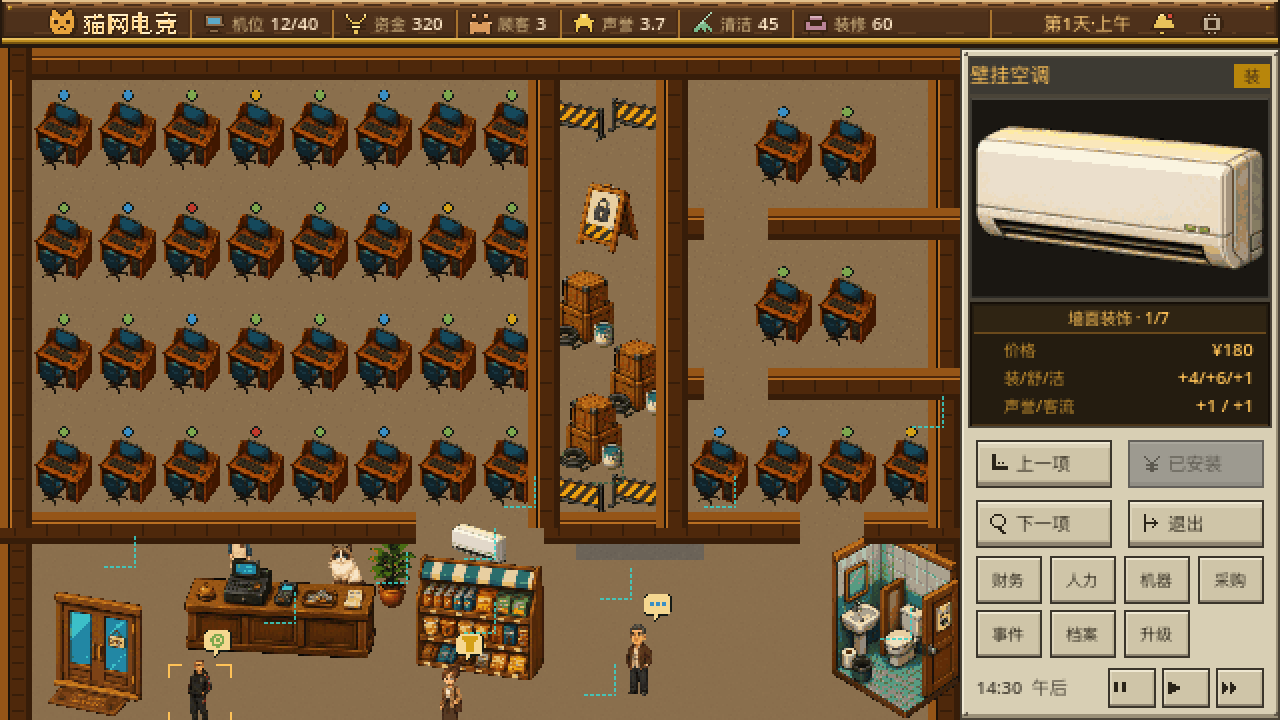
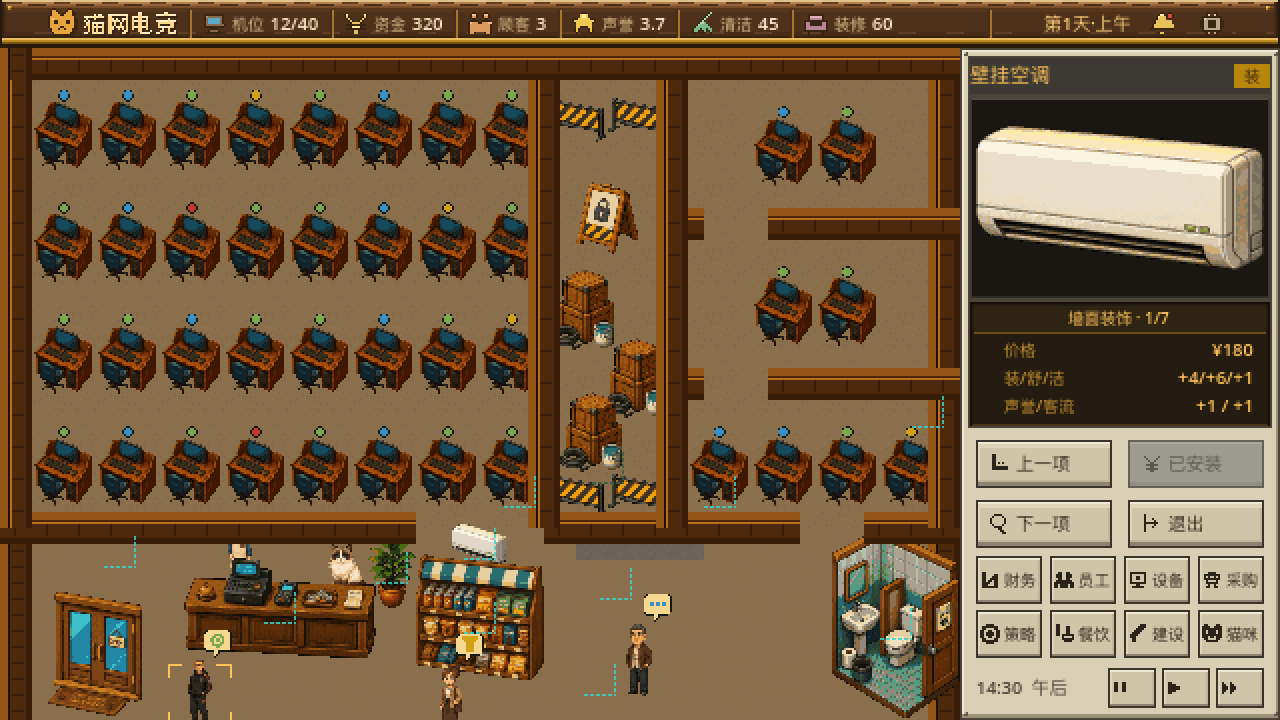
完成右栏运营系统草图与全链路验收
同步经营总台三态、八模块导航和模块边界文档；运行时断言覆盖全宽主键、模块顺序、建设装修跳转、对象返回及关店日结流程。

Changed region(s): [[0.75, 0.7944, 1.0, 0.9167]]

diff --git a/docs/ui/布局草图-像素风.html b/docs/ui/布局草图-像素风.html
@@ -94,6 +94,7 @@ img{image-rendering:pixelated}
 .p-actions{height:108px;flex-shrink:0;display:grid;grid-template-columns:136px 136px;
   grid-template-rows:48px 48px;gap:12px 16px;justify-content:center;align-content:center;
   margin-top:12px;margin-bottom:8px}
+.p-actions.counter .primary{grid-column:1/-1;width:auto}
 .btn{background:#cfc5a8;border:2px solid #3a352b;color:#2a2419;
   box-shadow:inset 0 4px 0 #ddd4ba,inset 0 2px 0 #efe8d2,inset 0 -4px 0 #8e8471,inset 0 -6px 0 #bfb598;
   display:flex;align-items:center;gap:6px;padding-left:14px;cursor:pointer}
@@ -111,11 +112,11 @@ img{image-rendering:pixelated}
 .btn.off img{filter:brightness(0) opacity(0.45)}
 .p-modules{height:156px;flex-shrink:0;display:flex;flex-direction:column;gap:8px}
 .mgrid{display:grid;grid-template-columns:repeat(4,66px);gap:6px 8px;justify-content:center}
-/* 模块小键暂时只有文字：33px 宽塞不下 icon + 两个字，等 16×16 模块图标到位再加 */
 .mod{height:48px;background:#cfc5a8;border:2px solid #3a352b;color:#2a2419;font-size:16px;
   box-shadow:inset 0 2px 0 #efe8d2,inset 0 -2px 0 #8e8471;
   display:flex;align-items:center;justify-content:center;position:relative;cursor:pointer}
 .mod:hover{background:#ded4b6}
+.mod img{width:20px;height:20px;image-rendering:pixelated;filter:brightness(0);margin-right:2px}
 .mod .dot{position:absolute;top:-4px;right:-4px;width:10px;height:10px;background:#c0392b;border:2px solid #ffe9c9}
 /* 时钟直接压在米白机身上，文字必须走深墨 */
 .timebar{height:44px;display:flex;align-items:center;gap:6px;color:#4a4438;font-size:17px}
@@ -162,11 +163,15 @@ img{image-rendering:pixelated}
 .decor-flow{width:1280px;display:grid;grid-template-columns:1fr 1fr;gap:12px}
 .decor-flow figure{margin:0;background:#352518;border:2px solid #765039;padding:8px}
 .decor-flow img{width:100%;image-rendering:pixelated}.decor-flow figcaption{color:#ffe9c9;text-align:center;margin-top:6px}
+.operation-states{width:1280px;display:grid;grid-template-columns:1fr 1fr;gap:12px}
+.operation-states figure{margin:0;background:#352518;border:2px solid #765039;padding:8px}
+.operation-states img{width:100%;image-rendering:pixelated}
+.operation-states figcaption{color:#ffe9c9;text-align:center;margin-top:6px}
 </style>
 </head>
 <body>
 
-<div class="cap">猫网电竞 · 布局 v6 ｜ 逻辑画布 <b>640×360</b>，本图 ×2 呈现 ｜ 已接入 24 项装修购买安装与区域换肤</div>
+<div class="cap">猫网电竞 · 布局 v7 ｜ 逻辑画布 <b>640×360</b>，本图 ×2 呈现 ｜ 经营总台三态 + 固定 4×2 八模块</div>
 
 <div class="screen">
 
@@ -198,38 +203,37 @@ img{image-rendering:pixelated}
          内容由页尾脚本按 stage_controller.gd 的坐标表生成，贴图取自 assets/world/ -->
     <div class="stage"><div id="scene"></div></div>
 
-    <!-- ③ 操作栏：默认柜台态 -->
+    <!-- ③ 操作栏：默认经营总台休息态 -->
     <div class="panel">
-      <div class="p-title"><span>柜台</span><span class="badge">台</span></div>
+      <div class="p-title"><span>经营总台</span><span class="badge">店</span></div>
 
       <div class="p-portrait"><img src="../../godot/assets/ui/portraits/portrait_counter.png" alt="柜台侧视图"></div>
 
       <div class="p-overview">
-        <div class="head">柜台概览</div>
+        <div class="head">营业总览</div>
         <div class="rows">
-          <div class="row"><span class="lamp"></span><span class="k">营业</span><span class="v off">未营业</span></div>
-          <div class="row"><span class="lamp" style="background:transparent"></span><span class="k">今日收银</span><span class="v">¥ 0</span></div>
+          <div class="row"><span class="lamp"></span><span class="k">状态</span><span class="v off">休息中</span></div>
+          <div class="row"><span class="lamp" style="background:transparent"></span><span class="k">在店顾客</span><span class="v">3 人</span></div>
+          <div class="row"><span class="lamp" style="background:transparent"></span><span class="k">今日营收</span><span class="v">¥ 0</span></div>
         </div>
       </div>
 
-      <div class="p-actions">
-        <div class="btn"><img src="../../godot/assets/ui/icons/shop_open.png" alt="">开店</div>
-        <div class="btn"><img src="../../godot/assets/ui/icons/serve.png" alt="">接待</div>
-        <div class="btn"><img src="../../godot/assets/ui/icons/restock.png" alt="">补货</div>
-        <div class="btn"><img src="../../godot/assets/ui/icons/cash.png" alt="">收银</div>
+      <div class="p-actions counter">
+        <div class="btn primary"><img src="../../godot/assets/ui/icons/shop_open.png" alt="">开店营业</div>
+        <div class="btn"><img src="../../godot/assets/ui/icons/inventory.png" alt="">开店检查</div>
+        <div class="btn"><img src="../../godot/assets/ui/icons/details.png" alt="">日结回顾</div>
       </div>
 
       <div class="p-modules">
         <div class="mgrid">
-          <div class="mod">财务</div>
-          <div class="mod">人力</div>
-          <div class="mod">机器</div>
-          <div class="mod">采购</div>
-          <div class="mod">事件<span class="dot"></span></div>
-          <div class="mod">档案</div>
-          <div class="mod">升级</div>
-          <!-- 第 8 格留空：设置只保留顶栏齿轮 -->
-          <div></div>
+          <div class="mod"><img src="../../godot/assets/ui/icons/module_finance.png">财务</div>
+          <div class="mod"><img src="../../godot/assets/ui/icons/module_staff.png">员工</div>
+          <div class="mod"><img src="../../godot/assets/ui/icons/module_equipment.png">设备</div>
+          <div class="mod"><img src="../../godot/assets/ui/icons/module_procurement.png">采购</div>
+          <div class="mod"><img src="../../godot/assets/ui/icons/module_strategy.png">策略</div>
+          <div class="mod"><img src="../../godot/assets/ui/icons/module_dining.png">餐饮</div>
+          <div class="mod"><img src="../../godot/assets/ui/icons/module_construction.png">建设</div>
+          <div class="mod"><img src="../../godot/assets/ui/icons/module_cat.png">猫咪</div>
         </div>
         <div class="timebar">
           <span class="t">14:30 午后</span>
@@ -267,7 +271,17 @@ img{image-rendering:pixelated}
 </div>
 
 <div class="cap">
-  ④ <b>六代机位配置</b>：GTX 9 / 10 与 RTX 20 / 30 / 40 / 50 系
+  ④ <b>右栏营业状态与模块导航</b>：休息、营业、收尾三态使用全宽主键；全局固定财务、员工、设备、采购、策略、餐饮、建设、猫咪八模块
+</div>
+<div class="operation-states">
+  <figure><img src="preview/operation_open@2x.png" alt="营业中"><figcaption>营业中 · 停止接客 + 待接待 / 待结账</figcaption></figure>
+  <figure><img src="preview/operation_closing@2x.png" alt="收尾中"><figcaption>收尾中 · 清空顾客后开放关店结算</figcaption></figure>
+  <figure><img src="preview/operation_closed@2x.png" alt="关店后"><figcaption>休息中 · 次日开店检查与日结回顾</figcaption></figure>
+  <figure><img src="preview/operation_module@2x.png" alt="财务模块"><figcaption>财务模块 · 摘要、实时指标和四个一级入口</figcaption></figure>
+</div>
+
+<div class="cap">
+  ⑤ <b>六代机位配置</b>：GTX 9 / 10 与 RTX 20 / 30 / 40 / 50 系
   ｜ 上图是右栏详情 <b>144×96</b>，下图是场景单座 <b>64×68</b>（此处 ×2）
   ｜ 初始 40 台全部使用 9 系，其他五代作为升级素材预置
 </div>
@@ -275,7 +289,7 @@ img{image-rendering:pixelated}
 <div class="pc-gallery" id="pc-gallery"></div>
 
 <div class="cap">
-  ⑤ <b>装修系统首版</b>：6 套区域主题 + 18 项实体装修 ｜ 每项具备场景小图与 <b>144×96</b> 右栏详情
+  ⑥ <b>装修系统首版</b>：6 套区域主题 + 18 项实体装修 ｜ 每项具备场景小图与 <b>144×96</b> 右栏详情
   ｜ 按槽位标签筛选，购买后扣款并立即安装，区域主题可独立换肤
 </div>
 
@@ -288,7 +302,7 @@ img{image-rendering:pixelated}
 </div>
 
 <div class="cap">
-  ⑥ <b>NPC 阵容</b>：50 套固定顾客外观，30 男 20 女，年龄 18–60 岁 ｜ 立绘 <b>32×72</b>，此处 ×2 呈现
+  ⑦ <b>NPC 阵容</b>：50 套固定顾客外观，30 男 20 女，年龄 18–60 岁 ｜ 立绘 <b>32×72</b>，此处 ×2 呈现
   ｜ 人设与 <b>godot/data/customers.json</b> 同源，场景里的顾客按 ID 从这套库里取
 </div>
 

diff --git a/docs/ui/操作区功能规划.md b/docs/ui/操作区功能规划.md
@@ -1,4 +1,4 @@
-# 右侧操作区功能规划 v1
+# 右侧操作区功能规划 v2
 
 > 对应 640×360 主界面右侧 160×336 操作区。  
 > 本文定义按钮含义、显示条件和模块边界；具体数值公式另行设计。
@@ -9,21 +9,21 @@
 2. **高频一键、复杂进面板**：接待、结算、清洁等高频动作直接执行；采购、调价、升级等需要选择的动作打开小面板。
 3. **上下文按钮固定 2×2**：按钮随当前选中对象变化；无意义的操作禁用，不显示假按钮「——」。
 4. **操作必须有反馈**：成功后立即刷新场景状态点、对象概览和顶栏；失败时说明缺少的资金、库存或前置条件。
-5. **入口不重复**：设置只保留顶栏齿轮。右下全局模块保留七个入口，最后一格留空。
+5. **入口不重复**：设置只保留顶栏齿轮；事件走消息铃；右下固定八个经营系统。
 
 ## 二、上下文操作
 
-### 2.1 柜台（默认态）
+### 2.1 经营总台（默认态）
 
-| 按钮 | 类型 | 预期功能 | 启用条件 |
-|------|------|----------|----------|
-| 开店 / 打烊 | 一键 | 开店自动启动正常且清洁的机器；打烊停止新客进入并进入日结 | 始终可用；打烊需二次确认 |
-| 接待 | 一键 | 处理第一个待接待顾客，自动分配合适的空闲机位 | 存在待接待顾客与可用机位 |
-| 补货 | 小面板 | 展示缺货商品和常用补货组合；确认后生成采购支出 | 存在可采购商品 |
-| 收银 | 一键 | 处理第一个待结账顾客，结算网费与小卖部消费 | 存在待结账顾客 |
+经营总台不是普通对象的 2×2 操作，而是“一颗全宽营业主键 + 两颗高频任务键”：
 
-- 「接待」「收银」后续在按钮右上显示待处理数量角标。
-- 排队人数不进入柜台概览；等待中的顾客在场景中直接可见。
+- 休息中：`开店营业`；副键为 `开店检查`、`日结回顾`。
+- 营业中：`停止接客`；副键为 `待接待 N`、`待结账 N`。
+- 收尾中：停止新客进入，现有顾客统一进入结账队列；顾客清空后开放 `关店结算`。
+- 日结完成后记录营业日、营收和服务顾客数，天数加一并回到休息态。
+
+开店检查真实统计待清洁、故障与可营业机位；员工和库存尚未实现时明确标记“待接入”，
+不伪造检查结果。补货、收银等业务分别由采购模块和顾客上下文承接。
 
 ### 2.2 机位
 
@@ -69,22 +69,22 @@
 
 ## 三、全局模块
 
-全局模块保持 4×2 网格，按以下顺序排列，最后一格留空：
+全局模块固定为 4×2 网格，采购只负责买入，设备、餐饮和猫咪负责实际运营：
 
 | 位置 | 模块 | 预期功能 |
 |------|------|----------|
-| 1 | 财务 | 收入、支出、利润、现金流、日结与历史报表 |
-| 2 | 人力 | 招聘、排班、工资、员工状态与岗位效率 |
-| 3 | 机器 | 批量电源、硬件配置、区域定价与游戏库 |
-| 4 | 采购 | 库存、供应商、采购单与进货成本 |
-| 5 | 事件 | 当前待处理事件、选项及概率后果 |
-| 6 | 档案 | 顾客会员、经营记录、事件归档与里程碑 |
-| 7 | 升级 | 装修、扩区、设备与服务升级 |
-| 8 | 留空 | 不放重复设置入口 |
+| 1 | 财务 | 今日账单、收支趋势、成本结构、日结 |
+| 2 | 员工 | 招聘、排班、员工状态、培训 |
+| 3 | 设备 | 机器配置、维修、网络软件、游戏库 |
+| 4 | 采购 | 小卖部、餐饮原料、硬件软件、猫咪用品 |
+| 5 | 策略 | 网费、商品价、会员促销、广告 |
+| 6 | 餐饮 | 菜单、订单、制作设备、食品卫生 |
+| 7 | 建设 | 装修、服务升级、扩区、区域主题 |
+| 8 | 猫咪 | 状态、喂养、用品、顾客互动 |
 
-### 升级模块首版：装修目录
+### 建设模块首版：装修目录
 
-- 点击「升级」进入场景装修预览，12 个预设槽位显示青色虚线；高配区锁定槽显示红色。
+- 点击「建设 → 装修」进入场景装修预览，12 个预设槽位显示青色虚线；高配区锁定槽显示红色。
 - 点击槽位后，右栏按标签轮播兼容项目，四键固定为「上一项 / 购买或安装 / 下一项 / 退出」。
 - 中央键根据状态显示价格、安装、已安装、资金不足、等级不足或区域未解锁。
 - 购买成功立即扣款、登记持有并安装；已持有项目换槽或替换时不重复收费。
@@ -94,7 +94,7 @@
 ### 入口分工
 
 - **顶栏消息铃**：通知与待办列表，只负责提醒和跳转。
-- **事件模块**：事件决策、结果和历史记录。
+- **随机事件**：由消息铃弹出决策，结果归入财务或经营档案，不占常驻模块。
 - **顶栏齿轮**：唯一设置入口。
 
 ## 四、时间控制
@@ -114,5 +114,5 @@
 3. 机位开关、清洁、维修及状态点刷新。
 4. 顾客接待、结算与今日收银闭环。
 5. 财务模块和日结。
-6. 小卖部、采购、人力、事件、档案、升级。
+6. 八模块首页与一级导航；深层经营数值按财务、员工、设备、采购顺序落地。
 

diff --git a/docs/ui/界面布局设计.md b/docs/ui/界面布局设计.md
@@ -176,32 +176,37 @@
 
 ### 各段细节
 
-**对象标题条**：深色底 + 金色 12px 像素字，右侧一个小类型徽标（台 / 机 / 客）。默认文案「柜台」，徽标「台」。
+**对象标题条**：深色底 + 金色 12px 像素字，右侧一个小类型徽标（店 / 机 / 客 / 财等）。默认文案「经营总台」，徽标「店」。
 
 **特写视窗（144 × 96 素材）**：**默认态画柜台正视**——吧台台面、收银机、老板与布偶猫。选中机位则换成该机与在座顾客；选中顾客展示其立绘与心情。这是右栏的情绪担当，别只放数据。
 
-**柜台概览（160 × 64）**：内嵌琥珀单色屏。顶 14px 标题条，下文键值分行，左标签 `#c8912f`、右数值 `#ffc257`。两行时行高 22，三行时压到 14（44px 数据区的上限）。**柜台默认态只留两行**：
+**营业概览（160 × 64）**：内嵌琥珀单色屏。顶 14px 标题条，下文键值分行，左标签 `#c8912f`、右数值 `#ffc257`。默认态固定三行：
 ```
-柜台概览
-营业     未营业   ← 左侧 5×5 状态灯，关店红 / 开店绿
-今日收银 ¥ 186
+营业总览
+状态     休息中   ← 关店红 / 营业绿 / 收尾黄
+在店顾客 3 人
+今日营收 ¥ 186
 ```
-排队人数不进右栏。人已经站在场上柜台前，再抄一行数字是重复；「接待」按钮本身就是处理排队的入口。切到机位改为「机位概览」（分区 / 状态 / 预计收益），切到顾客改为「顾客概览」。
+待接待和待结账人数直接写在两颗副键上。切到机位改为「机位概览」，切到顾客改为「顾客概览」。
 
-**上下文操作（2 × 2，按钮 68 × 24，横间距 8、纵间距 6）**：每颗键帽是 **icon + 文字**，icon 10 × 10 靠左、文字 9px 紧随其后（间距 3），整组左对齐并留 7px 左内边距，这样四颗键的 icon 会对齐成一列。
+**上下文操作**：普通对象保持 2×2；经营总台单独改为第一行 144×24 全宽营业主键，第二行两颗 68×24 高频任务键。每颗键帽是 **icon + 文字**。
 
 按钮区上方必须留 **6px 机身**：概览屏和键帽都有深色描边，紧贴时两条边会糊成一条粗线，第一行按钮看着像是从琥珀屏里长出来的。另外键帽在 `GridContainer` 里要显式设 `SIZE_SHRINK_CENTER`，否则会被拉满整段高度（68px 两行时每颗被撑到 32 高，这是早期版本按钮显得笨重的原因）。
 
 按钮内容随对象变化：
-- **柜台（默认）**：开店打烊 / 接待 / 补货 / 收银
+- **经营总台**：开店营业或停止接客或关店结算 / 待接待 / 待结账
 - 选中机位：开机或关机 / 清洁 / 维修 / 详情
 - 选中顾客：接待 / 结算 / 升会员 / 劝离
 - 选中货架：快捷补货 / 查看库存 / 调价 / 促销
 - 选中待装修区：预览 / 规划 / 解锁条件 / 留空
 
-**全局模块（4 × 2 图标格，每格 33 × 24）**：财务 / 人力 / 机器 / 采购 / 事件 / 档案 / 升级 / 留空。设置只保留顶栏齿轮，避免重复入口。点击模块打开居中弹窗（弹窗尺寸见下）。
+**全局模块（4 × 2 图标格，每格 33 × 24）**：财务 / 员工 / 设备 / 采购 / 策略 /
+餐饮 / 建设 / 猫咪。设置只保留顶栏齿轮，事件只走消息铃。每颗小键使用 10×10 单色
+图标加两个 8px 汉字；当前模块保持按下态。点击后先在右栏展示摘要、指标和四个一级入口，
+数据密集的深层页面后续再打开居中弹窗。
 
-模块小键**暂时只有文字**：33px 宽塞不下 10px icon 加两个 9px 字，等 16 × 16 模块图标到位、格子能压到 24px 宽时再一起加。时间控制是录像机走带键（暂停 / 播放 / 快进，各 24 × 20），用 8 × 8 像素 icon，与时钟同占底部 22px 一行——原先的 `Ⅱ ▶ ≫` 是字体符号而非点阵字形，和键帽风格不搭。
+时间控制是录像机走带键（暂停 / 播放 / 快进，各 24 × 20），用 8 × 8 像素 icon，
+与时钟同占底部 22px 一行。
 
 有未读的模块（如新事件、待发工资）在图标右上叠红点。
 

diff --git a/docs/ui/缺失素材清单.md b/docs/ui/缺失素材清单.md
@@ -78,7 +78,6 @@
 
 仍待补：
 
-- 模块图标 16×16 共 7 个（见下节），到位后模块小键才能从纯文字改成 icon
 - `button_danger.9.png`：危险操作按钮（劝离、解雇等），需要一套红键帽
 - `selection_frame.9.png`：场景对象选中框
 - `badge_dot.png`：3×3 或 5×5 红点
@@ -87,9 +86,9 @@
 
 ### 模块图标
 
-每个 16×16：财务、人力、机器、采购、事件、档案、升级，共 7 个。第 8 格留空；设置使用顶栏已有的 12×12 齿轮，不重复制作模块入口。图标到位后模块格可从 33 × 24 压到 24 × 24，右栏还有一次收窄到 128 的余地。
-
-当前占位：纯文字键帽。33px 宽塞不下 10px icon 加两个 8px 字，所以模块小键暂不跟上下文键帽一样上 icon，等这批 16×16 到位再统一改。
+- [x] 10×10 单色图标共 8 个：财务、员工、设备、采购、策略、餐饮、建设、猫咪。
+- [x] 4×2 模块键使用“图标 + 两字标签”，当前模块显示按下态。
+- 设置继续使用顶栏齿轮，随机事件由消息铃触发，不重复占模块入口。
 
 ### 状态与气泡
 
